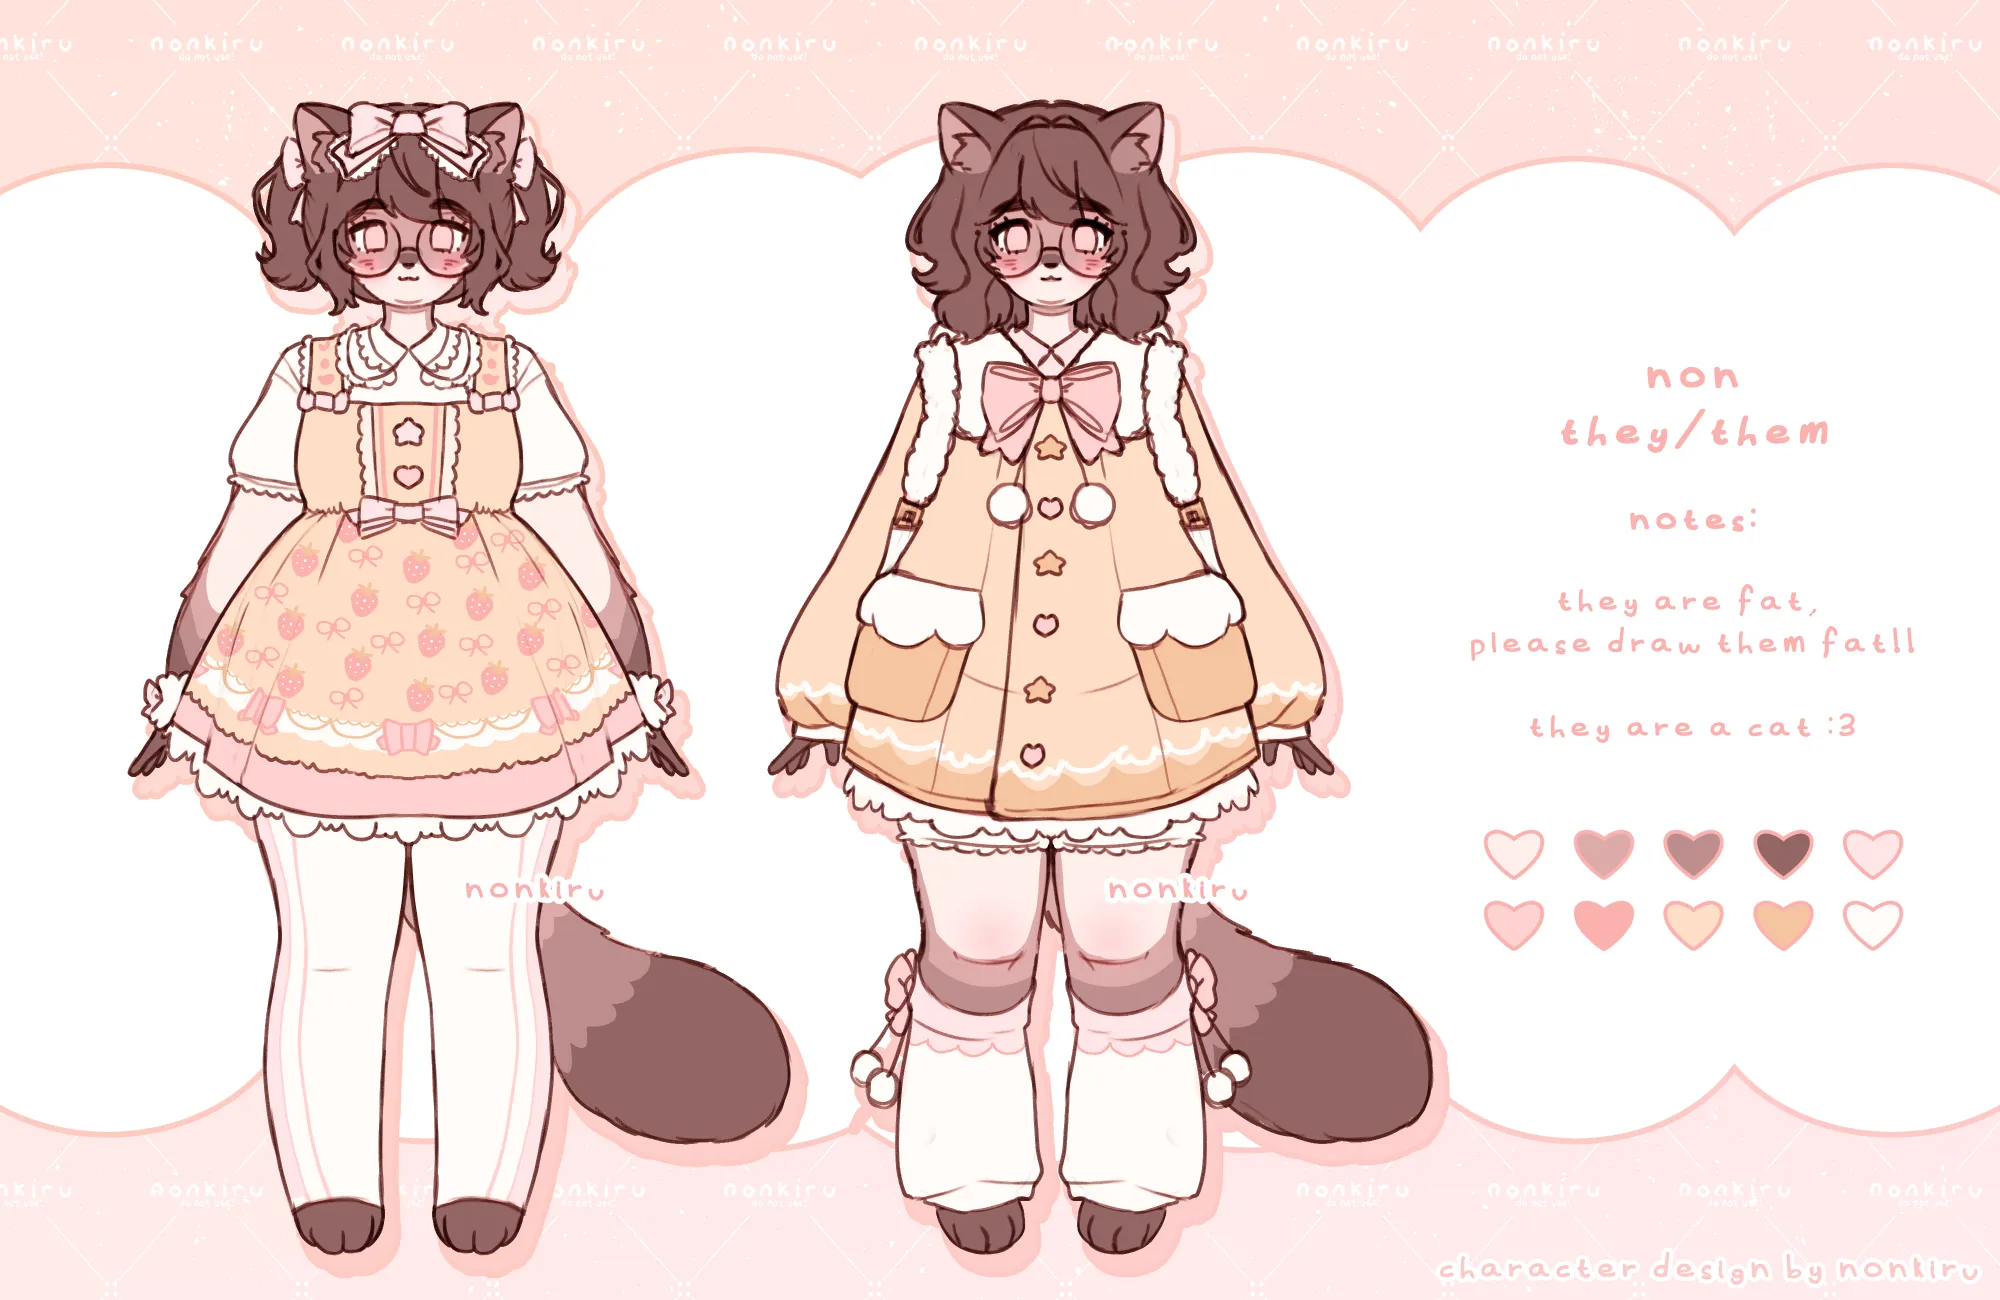
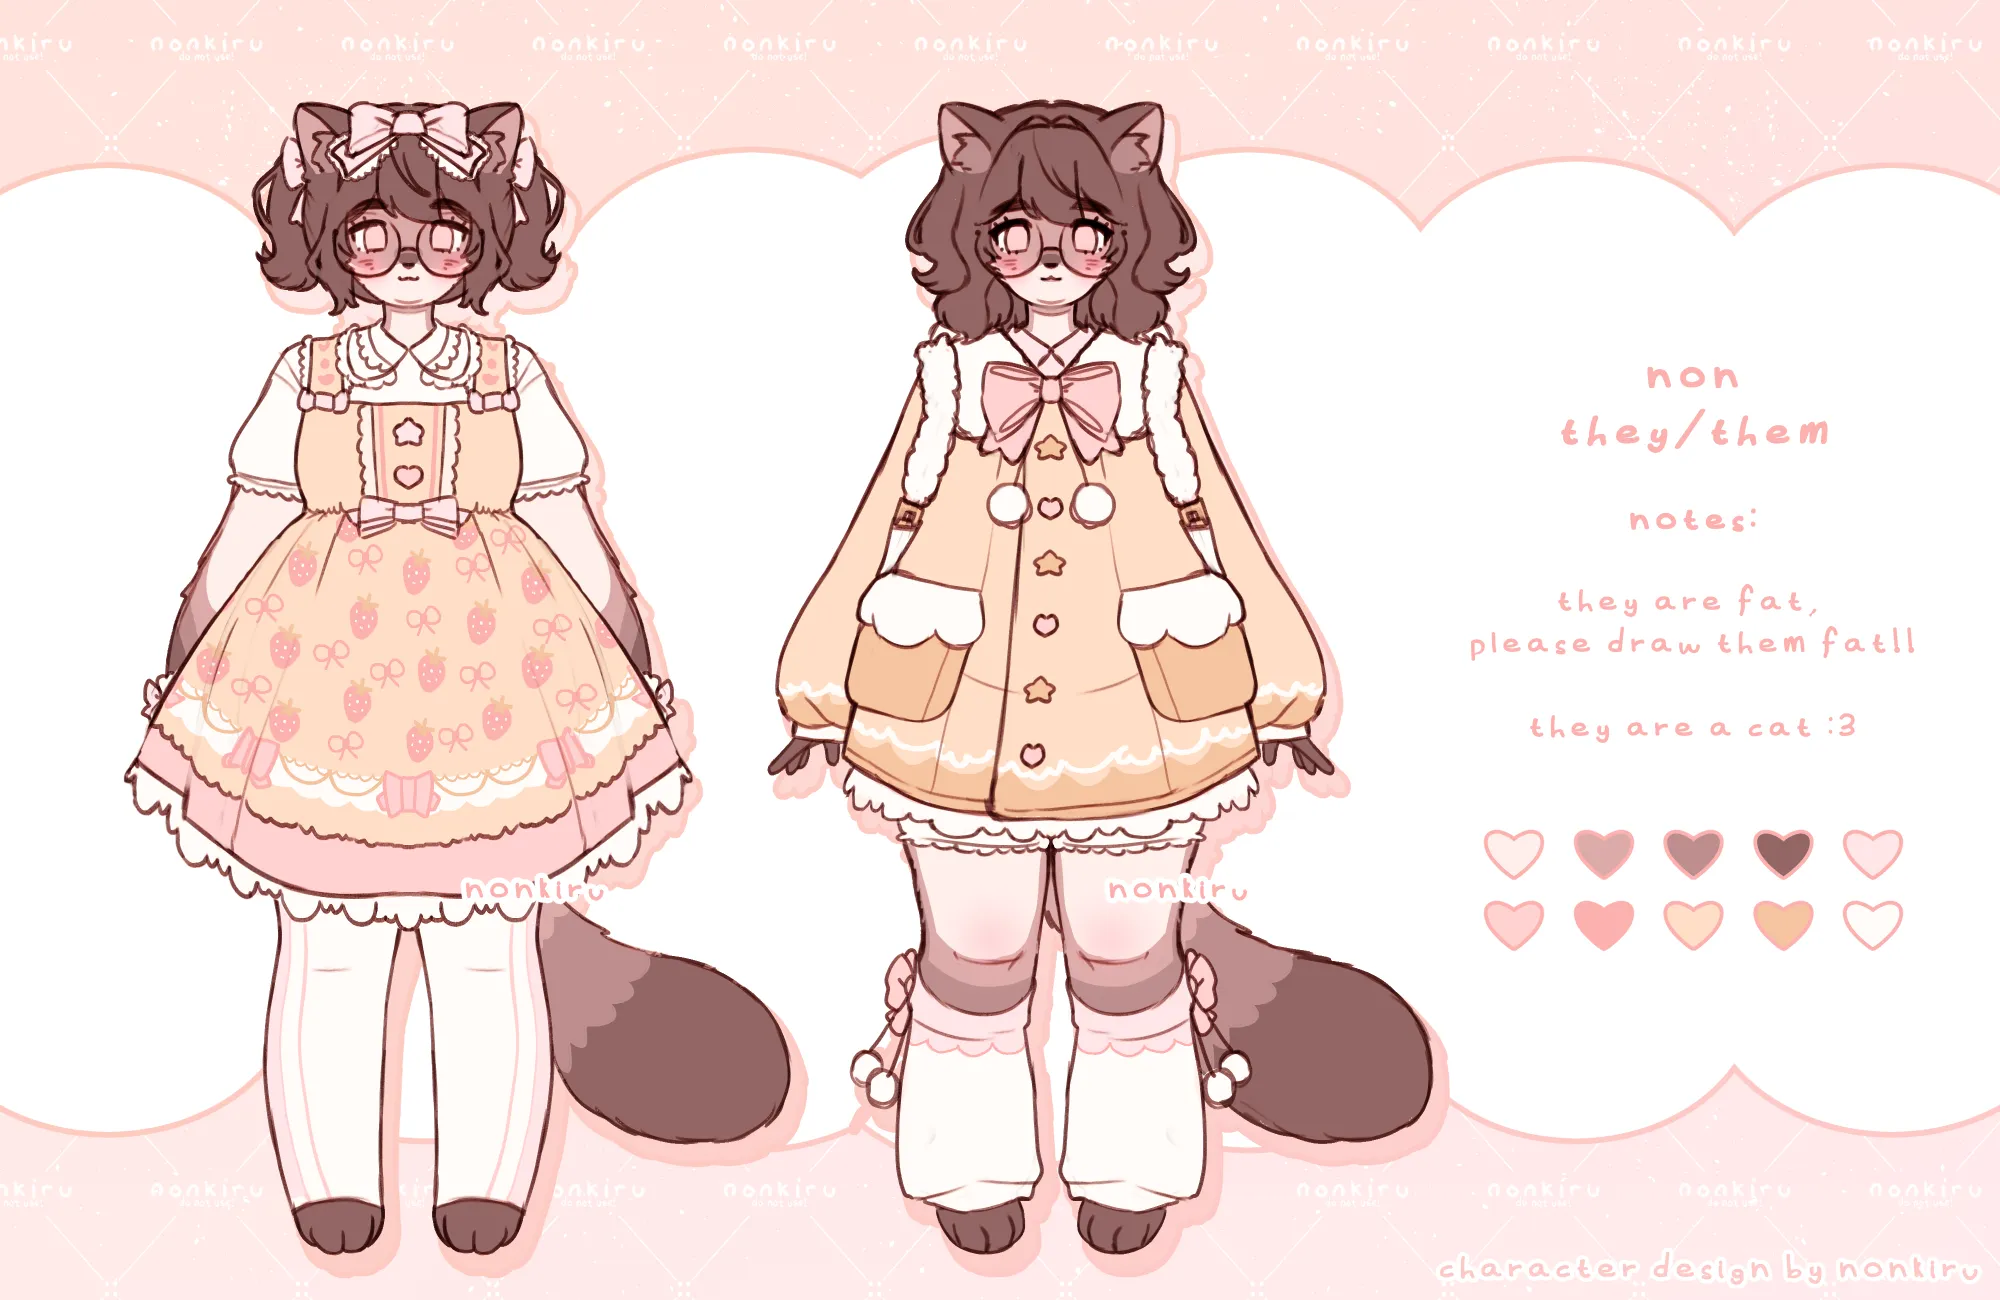
img fix

Changed region(s): [[0.062, 0.4, 0.372, 0.7692]]

diff --git a/public/about/index.html b/public/about/index.html
@@ -118,7 +118,11 @@ I'm also a freelance artist as my work. I do lots of art commissions!
 </div>
 <h2>Fursona</h2>
 <p>I have a fursona because I think they're really fun and silly. I also think that, generally, furry designs tend to be a bit more fun than human designs.
-<br><br>The floating pixel pagedoll is my fursona too! Their name is Non and they are a housecat, based vaguely off of a Ragdoll / Burmese. I also get to live vicariously through them, since one day I really want to wear Lolita fashion!</p>
+<br><br>The floating pixel pagedoll is my fursona too! Their name is Non and they are a housecat, based vaguely off of a Ragdoll / Burmese. I also get to live vicariously through them, since one day I really want to wear Lolita fashion!
+<br><br>This is their reference sheet!
+<br>You're welcome to draw them, and I will love you forever if you do!
+<img src="../assets/img/non sheet.webp" style="width: 100%;" alt="A reference sheet for the site owner's fursona. Text reads: Non, They/Them. Notes: They are fat, please draw them fat!! They are a cat. :3">
+<br>I also have a <a href="https://toyhou.se/23516905.non">Toyhouse page</a> for them.</p>
 
                     </main>
                 </div>

diff --git a/src/about.md b/src/about.md
@@ -40,4 +40,7 @@ My favourite things include...
 ## Fursona
 I have a fursona because I think they're really fun and silly. I also think that, generally, furry designs tend to be a bit more fun than human designs.
 <br><br>The floating pixel pagedoll is my fursona too! Their name is Non and they are a housecat, based vaguely off of a Ragdoll / Burmese. I also get to live vicariously through them, since one day I really want to wear Lolita fashion!
-
+<br><br>This is their reference sheet! 
+<br>You're welcome to draw them, and I will love you forever if you do!
+<img src="../assets/img/non sheet.webp" style="width: 100%;" alt="A reference sheet for the site owner's fursona. Text reads: Non, They/Them. Notes: They are fat, please draw them fat!! They are a cat. :3">
+<br>I also have a <a href="https://toyhou.se/23516905.non">Toyhouse page</a> for them.
